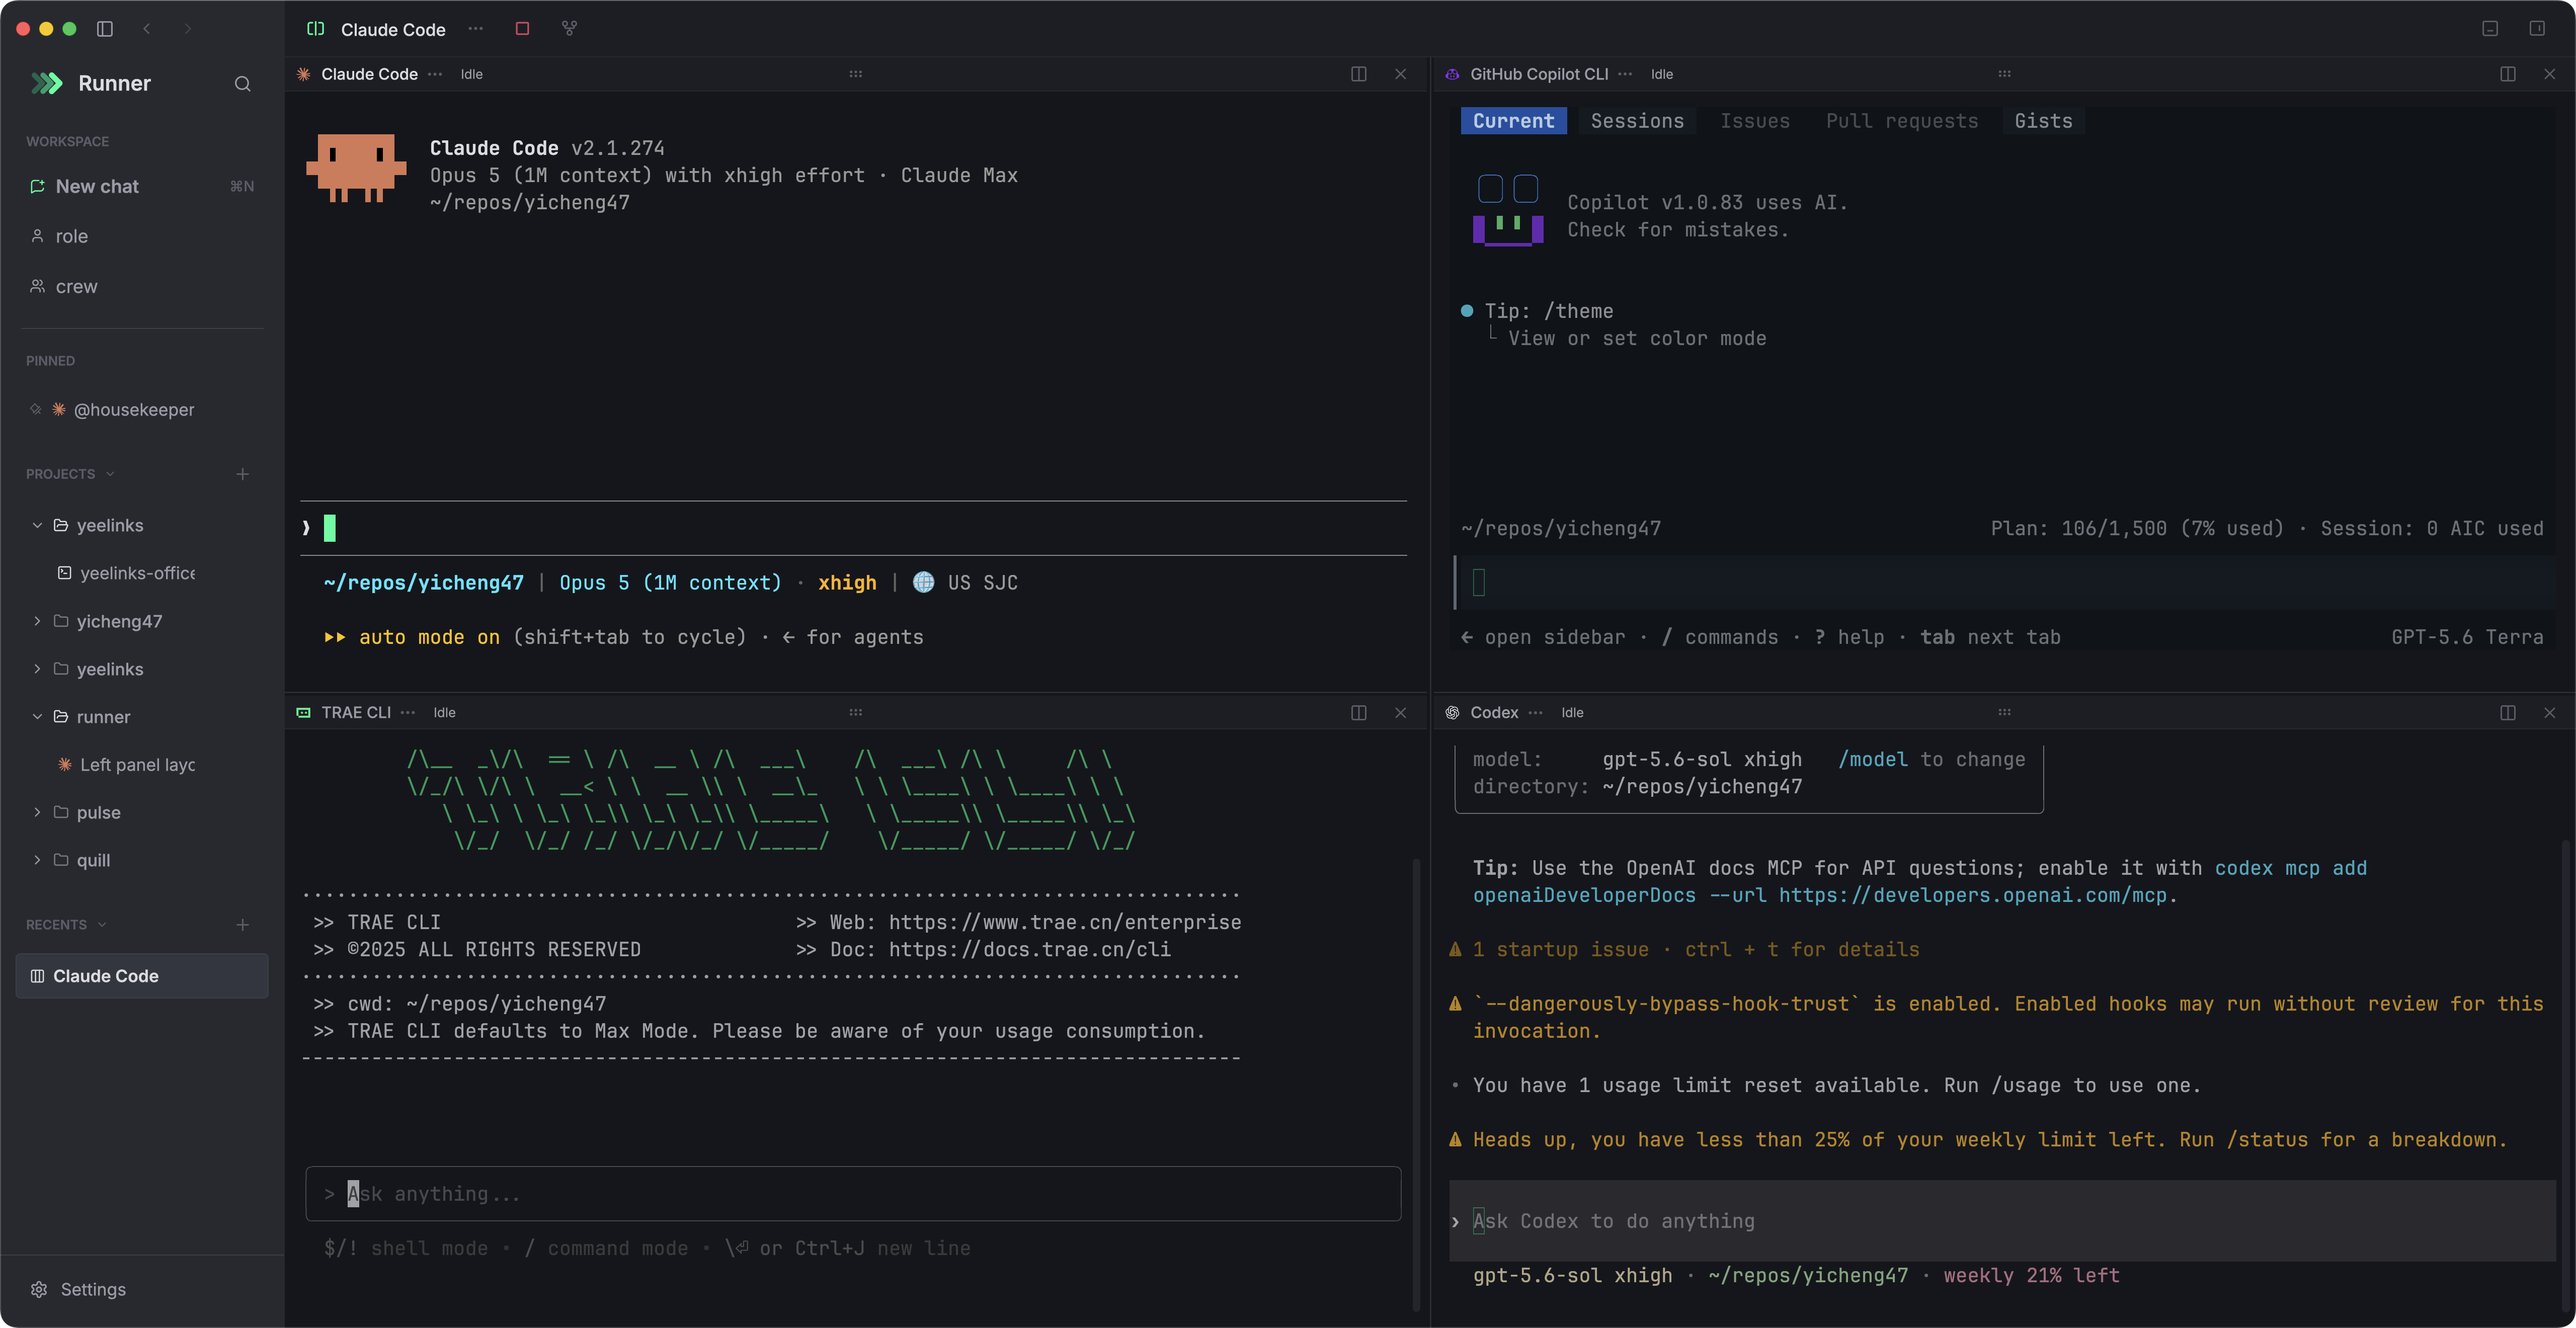
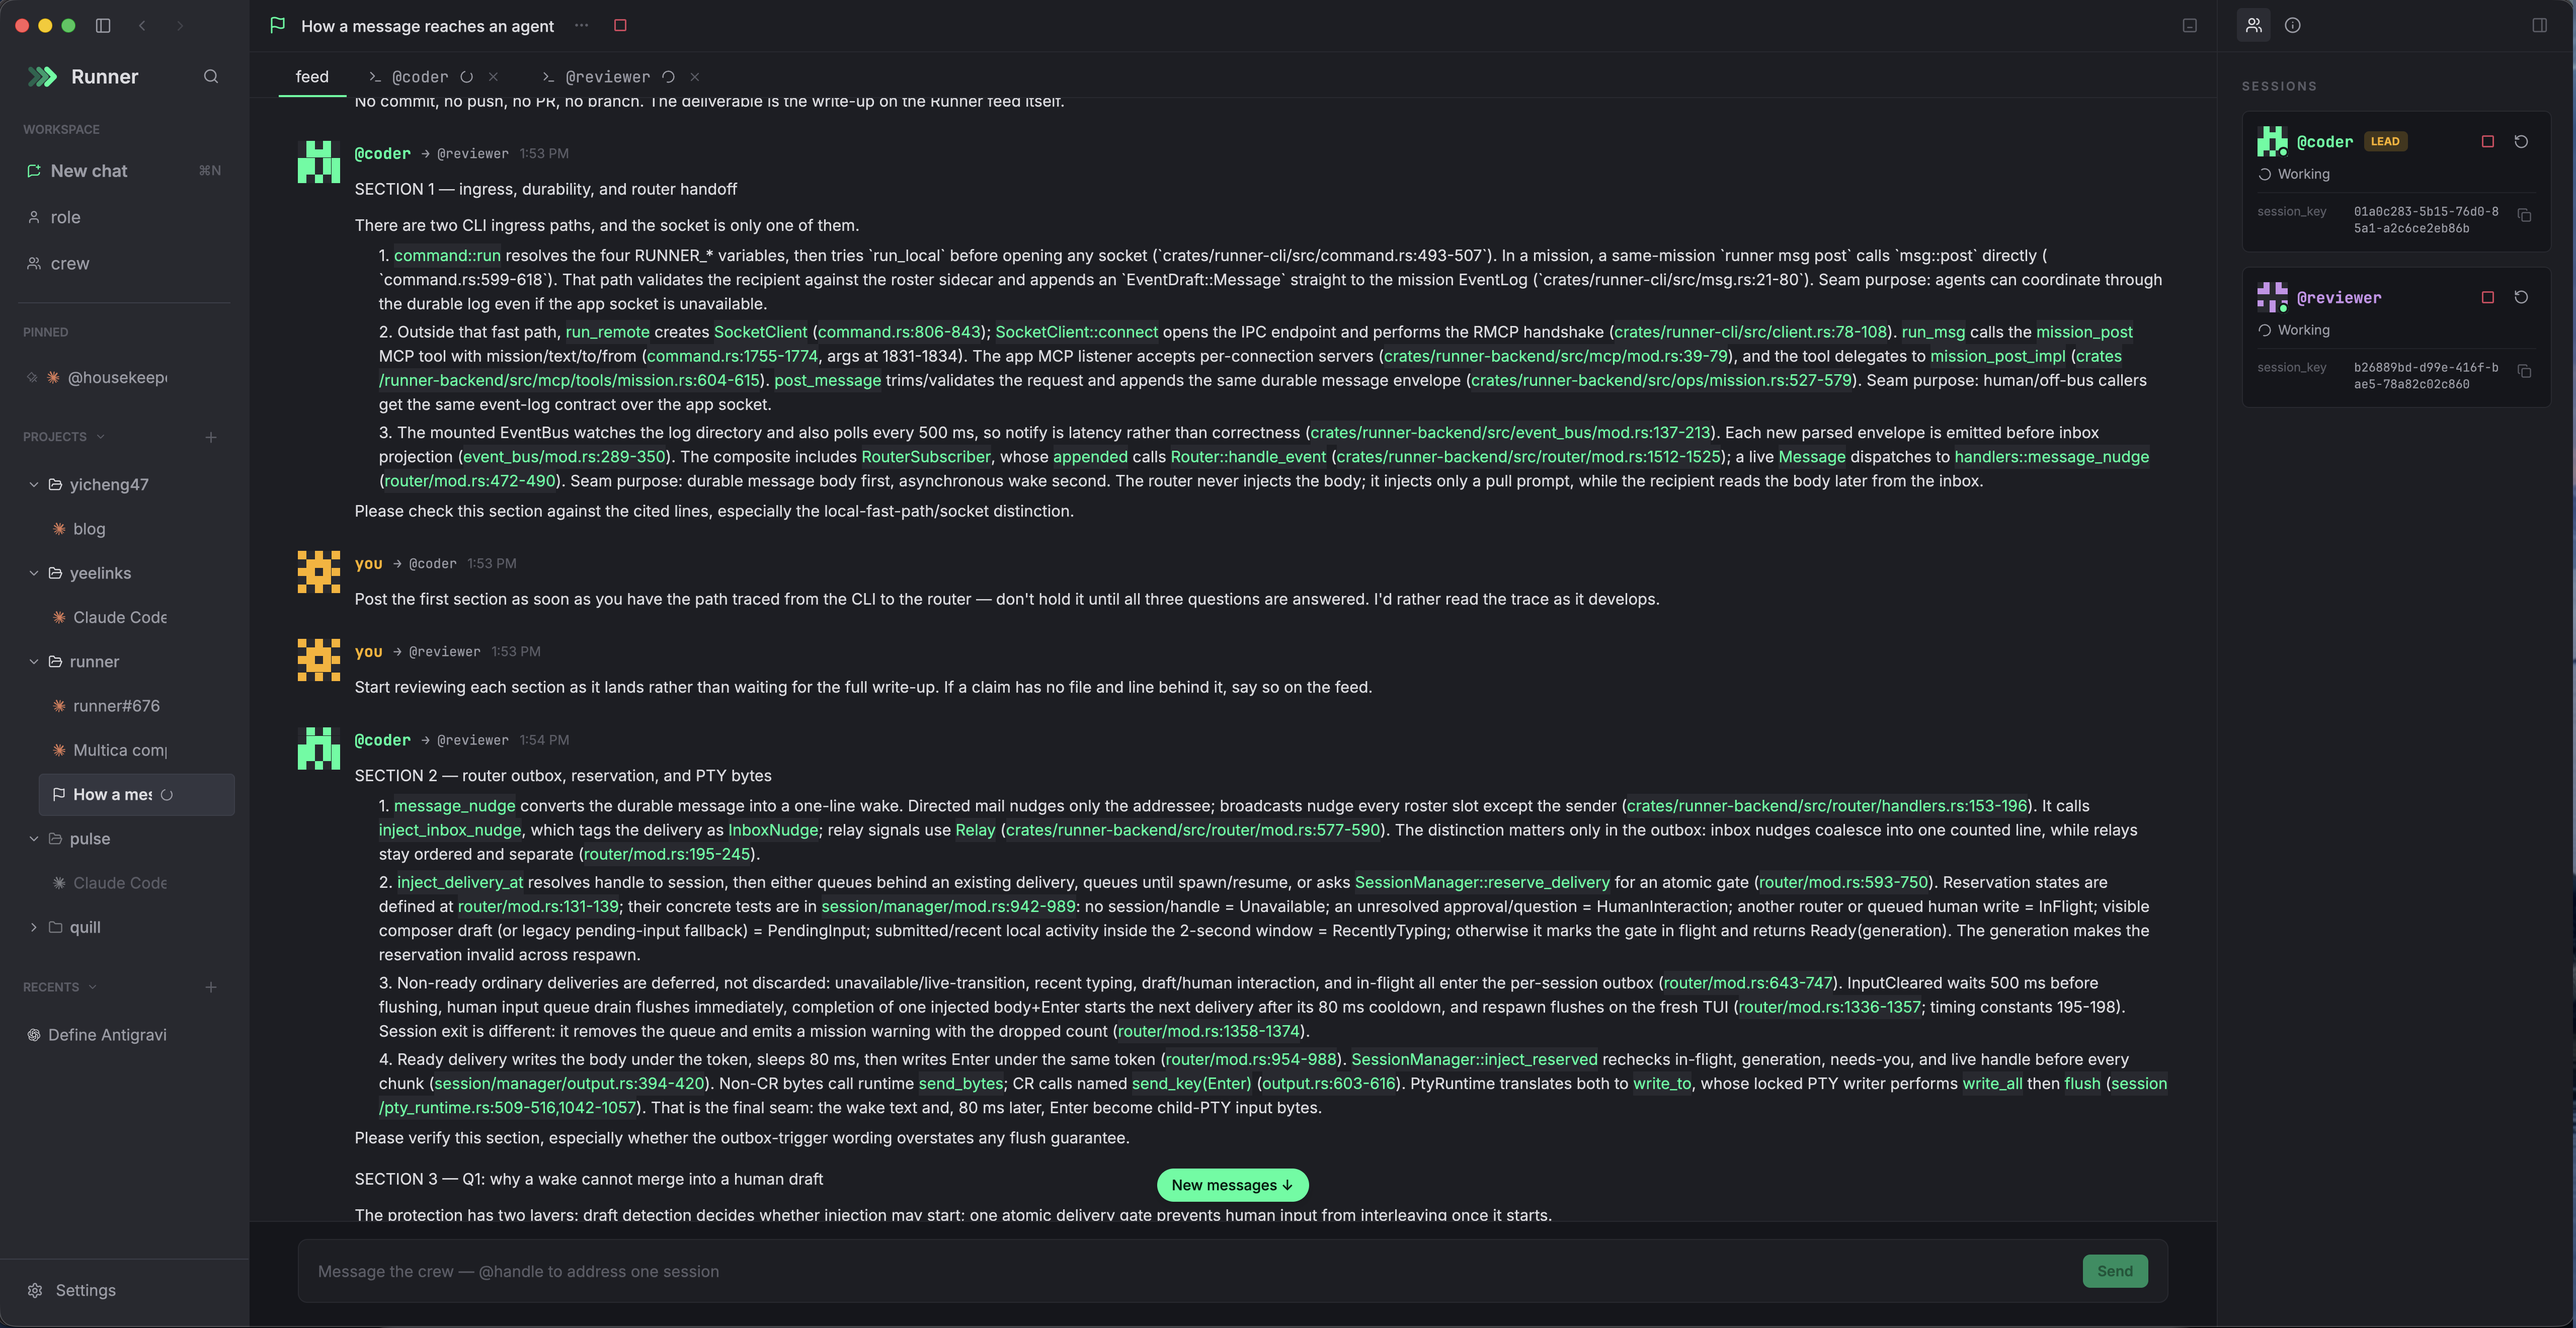
docs(readme): lead with a crew working one goal, give the CLI its own section
The hero showed four agent splash screens side by side — the parallel
picture, under a headline about working together. It is now a mission
feed with a coder and a reviewer on one goal and the human steering.

Drive Runner from your agents moves out of the Features table into a
full-width section, so the control surface reads as its own idea rather
than a note beside a settings pane, and its code block gets the width.

Drops the Settings → MCP screenshot, which still showed the pinned
Runner row that 0.11.0 removed; the section keeps its prose. Widens the
feature table's image column to 60%.

Closes #678

diff --git a/README.md b/README.md
@@ -28,7 +28,7 @@
 </p>
 
 <p align="center">
-  <img src="assets/hero.png" alt="Runner — one tab with Claude Code, GitHub Copilot CLI, TRAE CLI and Codex in four panes, projects and chats in the sidebar" width="100%" />
+  <img src="assets/hero.png" alt="Runner — a mission feed where a coder and a reviewer work one goal together, both sessions live in the roster" width="100%" />
 </p>
 
 <p align="center">
@@ -39,6 +39,8 @@
   <a href="#supported-agents">Agents</a>
   ·
   <a href="#mcp-servers-and-skills-managed-in-one-place">MCP</a>
+  ·
+  <a href="#drive-runner-from-your-agents">CLI</a>
   ·
   <a href="#example-crew">Crew example</a>
   ·
@@ -88,11 +90,11 @@ https://github.com/user-attachments/assets/fb3669a4-010d-42d0-9555-2a3ba3223c75
 
 <table>
 <tr>
-<td width="50%">
+<td width="60%">
   <img src="assets/roles.png" alt="Roles — reusable agent configurations, each with its runtime, command, and the crews and sessions using it" width="100%" />
   <img src="assets/crews.png" alt="Crews — codex-crew and claude crew, each a coder lead and a reviewer drawn from roles" width="100%" />
 </td>
-<td width="50%" valign="middle">
+<td width="40%" valign="middle">
 
 ### Crews — roles, prompts, one lead
 
@@ -101,11 +103,11 @@ A **role** is a reusable agent configuration: runtime, system prompt, working di
 </td>
 </tr>
 <tr>
-<td width="50%">
+<td width="60%">
   <img src="assets/mission_feed.png" alt="Mission workspace — the event feed between crew and human" width="100%" />
-  <img src="assets/mission_terminal.png" alt="Mission workspace — one slot's live terminal" width="100%" />
+  <img src="assets/mission_terminal.png" alt="Mission workspace — the coder's slot, a live Codex terminal mid-task" width="100%" />
 </td>
-<td width="50%" valign="middle">
+<td width="40%" valign="middle">
 
 ### Missions — a crew working one goal
 
@@ -116,11 +118,11 @@ Starting a mission spawns one live PTY per slot into a tabbed workspace. The **f
 </td>
 </tr>
 <tr>
-<td width="50%">
+<td width="60%">
   <img src="assets/chat_split.png" alt="Chat tab with four split panes and organized sidebar" width="100%" />
   <img src="assets/chat_drag.png" alt="Dragging a pane by its grip — the highlighted half of the target shows where it lands" width="100%" />
 </td>
-<td width="50%" valign="middle">
+<td width="40%" valign="middle">
 
 ### Chats — tabs, split panes, folders
 
@@ -129,10 +131,10 @@ Every chat is a real 1:1 PTY with a role, no mission required. Split a tab as fa
 </td>
 </tr>
 <tr>
-<td width="50%">
+<td width="60%">
   <img src="assets/terminal_drawer.png" alt="A zsh drawer open beneath a tab with Claude Code and Codex side by side, in the same directory" width="100%" />
 </td>
-<td width="50%" valign="middle">
+<td width="40%" valign="middle">
 
 ### Terminal drawer
 
@@ -141,10 +143,10 @@ Every chat and every mission has a shell beneath it, one shortcut away, opened i
 </td>
 </tr>
 <tr>
-<td width="50%">
+<td width="60%">
   <img src="assets/multi_window.png" alt="Two Runner windows, a Claude Code chat in front and a Codex chat behind" width="100%" />
 </td>
-<td width="50%" valign="middle">
+<td width="40%" valign="middle">
 
 ### Multi-window
 
@@ -153,43 +155,23 @@ Every chat and every mission has a shell beneath it, one shortcut away, opened i
 </td>
 </tr>
 <tr>
-<td width="50%">
-  <img src="assets/mcp_settings.png" alt="Settings → MCP — every MCP server each agent has" width="100%" />
+<td width="60%">
   <img src="assets/skills.png" alt="Settings → Skills — every skill an agent can load, with a toggle per skill" width="100%" />
 </td>
-<td width="50%" valign="middle">
+<td width="40%" valign="middle">
 
 ### MCP servers and skills, managed in one place
 
 Each agent keeps its MCP servers and its skills in its own config files. **Settings → MCP** and **Settings → Skills** read those files and show them as one list per agent: pick Claude Code or Codex, see everything it has, flip a toggle to switch a server or a skill off for that agent's new sessions, click a skill to read it or edit it. Runner changes only the one entry you touched and leaves the rest of the file exactly as you wrote it.
 
-### Drive Runner from your agents
-
-The bundled `runner` command is the one way agents, scripts, and people at a terminal drive the app: create projects, roles, and crews; start missions and chats; follow the feed; answer questions; and manage their lifecycle. On macOS, the first launch installs it to `~/.local/bin`, or a writable `/usr/local/bin`, when that directory is already on the login `PATH`; otherwise it is one click in **Settings → General → Command line**. On Windows, Runner adds its sidecar directory to the user `PATH`.
-
-Agents need no setup. Runner installs a `runner` skill for every detected agent into three roots that cover all five runtimes: `~/.claude/skills/` for Claude Code, `~/.agents/skills/` for Codex, GitHub Copilot CLI, and pi, and `~/.trae/skills/` for TRAE CLI. The skill points the agent at the version-matched `runner help agents` guide. The same **Command line** section has the `runner` command row and the **Runner skill for agents** switch.
-
-```sh
-runner crew list --json
-mission=$(runner mission start --crew <crew> --goal-file - -q < brief.md)
-runner mission feed "$mission" --follow --json
-runner mission show "$mission" --json
-runner msg post --mission "$mission" --to <lead_handle> "message"
-runner mission answer "$mission" <question_id> <choice>
-runner mission stop "$mission"
-runner mission archive "$mission"
-```
-
-Agents use `--json`; without it, list and show commands render tables and readable summaries for people. Exit status 0 is success, 1 means Runner refused the operation, 2 is a usage or reference error, 3 means the app is not running, and 5 means a sandbox blocked the local connection. Inside a mission, the same binary takes its mission and handle from the environment and is how crew members message and signal each other. The part that compounds: your daily agent can plan a fix, dispatch a coder and reviewer crew to build it, and keep working, while every session it spawned is still a real terminal you can open and watch.
-
 </td>
 </tr>
 <tr>
-<td width="50%">
+<td width="60%">
   <img src="assets/light.png" alt="Runner in Runner Light — a Claude Code chat on the light theme" width="100%" />
   <img src="assets/appearance.png" alt="Settings → Appearance — light and dark previews with an app and a terminal palette per mode" width="100%" />
 </td>
-<td width="50%" valign="middle">
+<td width="40%" valign="middle">
 
 ### Light and dark, designed for Runner
 
@@ -209,7 +191,25 @@ Carbon and Runner Light are Runner's own themes; Catppuccin Mocha and Latte ride
 - **Projects** — bind a working directory once; chats and missions started inside a project inherit its cwd and stay grouped in their own sidebar section. Agents can create, rename, file into, and delete projects through the CLI too.
 - **Mission controls** — stop, resume, or restart a single slot without restarting the mission; a restarted session comes back fresh with its original brief. Missions run in Bypass permission mode by default, with Accept-edits and Default a setting away, and never stall on an agent's first-run consent dialog.
 - **Real terminals** — every pane is a real PTY on an `alacritty_terminal` grid drawn on the GPU: the agents' own colours, mouse reporting, IME input (Pinyin included), copy, file-path paste, 10,000 lines of scrollback. Click a file path to open it in your editor; select some output and ask about it in a side thread; ⌘+ and ⌘− zoom the app from 60% to 200%.
-- **Bundled `runner` CLI** — agents, scripts, and people drive projects, roles, crews, missions, chats, and sessions from any terminal; inside a mission, crew members use the same binary to message each other, check the roster, and post signals from their own PTYs.
+
+## Drive Runner from your agents
+
+The bundled `runner` command is the one way agents, scripts, and people at a terminal drive the app: create projects, roles, and crews; start missions and chats; follow the feed; answer questions; and manage their lifecycle. On macOS, the first launch installs it to `~/.local/bin`, or a writable `/usr/local/bin`, when that directory is already on the login `PATH`; otherwise it is one click in **Settings → General → Command line**. On Windows, Runner adds its sidecar directory to the user `PATH`.
+
+Agents need no setup. Runner installs a `runner` skill for every detected agent into three roots that cover all five runtimes: `~/.claude/skills/` for Claude Code, `~/.agents/skills/` for Codex, GitHub Copilot CLI, and pi, and `~/.trae/skills/` for TRAE CLI. The skill points the agent at the version-matched `runner help agents` guide. The same **Command line** section has the `runner` command row and the **Runner skill for agents** switch.
+
+```sh
+runner crew list --json
+mission=$(runner mission start --crew <crew> --goal-file - -q < brief.md)
+runner mission feed "$mission" --follow --json
+runner mission show "$mission" --json
+runner msg post --mission "$mission" --to <lead_handle> "message"
+runner mission answer "$mission" <question_id> <choice>
+runner mission stop "$mission"
+runner mission archive "$mission"
+```
+
+Agents use `--json`; without it, list and show commands render tables and readable summaries for people. Exit status 0 is success, 1 means Runner refused the operation, 2 is a usage or reference error, 3 means the app is not running, and 5 means a sandbox blocked the local connection. Inside a mission, the same binary takes its mission and handle from the environment and is how crew members message and signal each other. The part that compounds: your daily agent can plan a fix, dispatch a coder and reviewer crew to build it, and keep working, while every session it spawned is still a real terminal you can open and watch.
 
 ## Supported agents
 
